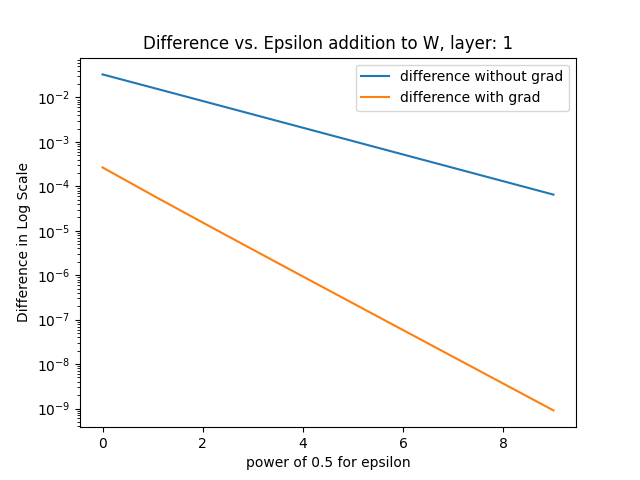
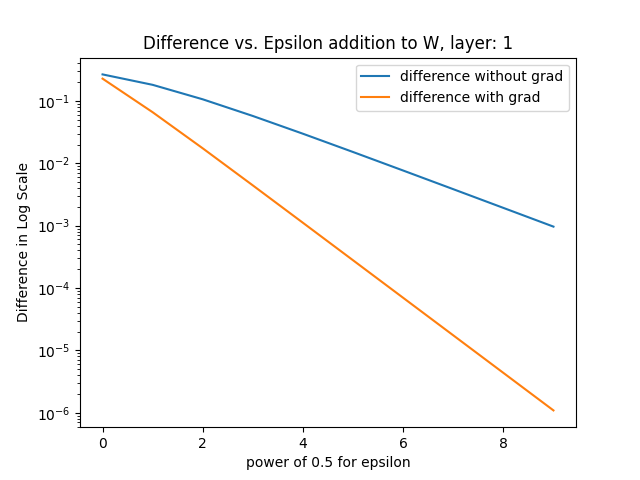
before using sofymax module

diff --git a/SoftMax_layer.py b/SoftMax_layer.py
@@ -1,0 +1,206 @@
+#TODO delete this file
+import numpy as np
+import torch #only for tests
+
+class SoftmaxModule:
+
+    def __init__(self, n, l):
+        # n is the length of input vector, l is number of classes
+        self.W = np.random.randn(n, l)*0.5   # change this potentially
+        self.B = np.zeros((1,l))#np.random.rand(1,l) * 0.5
+        self.X = None # cache X
+        self.C = None # cache C
+        self.A = None # cache A(activation, i.e. softmax output)
+
+    def softmax_forward(self, X,bias=True,cache = True):
+        """
+
+        :param X: X tensor of shape n,m where m is number of training examples
+        :param bias: whether to add bias or not, just for testing
+        :return: softmax output of shape l*m where l is the number of classes
+        """
+
+        # shape of W is n,l. shape of X is n,m.
+        if bias:
+            temp_X = np.concatenate((X, np.ones((1, X.shape[1]))), axis=0)  # shape n+1,m
+            temp = temp_X.T @ np.concatenate((self.W,self.B),axis=0)  # shape of temp is m,l
+        else:
+            temp = X.T @ self.W #shape is m,l
+        temp_max = np.max(temp, axis=1, keepdims=True) # shape is m,1
+        temp = temp - temp_max # broadcasting
+        exp = np.exp(temp)  # shape of exp is m,l
+        # print("shape of exp: %s" % str(exp.shape))
+        sum = np.sum(exp, axis=1, keepdims=True)  # shape of sum is m,1
+        # print("shape of sum: %s" % str(sum.shape))
+        out = exp / sum  # shape of out is m,l
+        if cache:
+          self.A = out # cache A
+        return out
+
+    def cross_entropy_forward(self, X, C):
+        """
+
+        :param X: output of softmax_forward, shape m,l
+        :param C: matrix of true labels, shape l,m
+        :return: cross entropy loss over all training examples
+        """
+        t = C.T * np.log(X)  # shape m,l
+        l_sum = np.sum(t, axis=1)  # shape m
+        return -1 * np.mean(l_sum)
+
+    def loss_forward(self, X, C,cache = True):
+        """
+
+        :param X: input matrix of size n*m
+        :param C: matrix of true labels, shape l,m
+        :return: the function returns the cross entropy loss
+        """
+        ##CACHE X and C
+        if cache:
+          self.X = X
+          self.C = C
+        return self.cross_entropy_forward(self.softmax_forward(X,cache = cache), C)
+
+    def grad(self):
+        """
+
+        :return: (dX,dW,dB)
+
+        """
+        # A.shape is m,l so we need to transpose it when computing dx
+        # W.shape is n,l
+        # X.shape is n,m
+        m = self.X.shape[1]
+        dX = (1/m)*self.W @ (self.A.T-self.C) # shape n,m
+        temp_X = np.concatenate((self.X, np.ones((1, self.X.shape[1]))), axis=0)  # shape n+1,m. this is for bias
+        dWB = (1/m)*temp_X @ (self.A-self.C.T) # shape n+1,l
+        # now we need to separate dW and dB
+        dW = dWB[:-1,:]
+        dB = dWB[-1:,:]
+        return dX,dW,dB # TODO: jacobian test
+
+    # def grad_test(self):
+    #     X = self.X
+    #     C = self.C
+    #     epsilon = [(0.5)**i for i in range(0,10)]
+    #     o_eps = []
+    #     o_eps_squared = []
+    #     dX,dW,dB= self.grad()
+
+    #     ### FOR dX ####
+    #     d = np.random.rand(self.X.shape[0],self.X.shape[1])
+    #     d = d/np.linalg.norm(d)
+    #     for eps in epsilon:
+    #         f_x_eps = self.loss_forward(X+(d*eps),C,cache=False)
+    #         f_x = self.loss_forward(X,C,cache=False)
+    #         o_eps.append(np.abs(f_x_eps-f_x))
+    #         temp = np.vdot(d,dX)*eps
+    #         temp_o_squared = np.abs(f_x_eps-f_x-temp)
+    #         o_eps_squared.append(temp_o_squared)
+    #     #now plot both o_eps and o_eps_squared
+    #     # plt.plot()
+    #     plt.plot(o_eps,label="without gradient",color="red")
+    #     plt.plot(o_eps_squared,label="with gradient",color="blue")
+    #     plt.yscale("log")
+    #     plt.ylabel("difference")
+    #     plt.legend()
+    #     plt.title("softmax: dL/dX")
+    #     plt.show()
+
+    #     ##FOR W ##
+    #     o_eps = []
+    #     o_eps_squared = []
+    #     d = np.random.rand(self.W.shape[0],self.W.shape[1])
+    #     d = d/np.linalg.norm(d)
+    #     for eps in epsilon:
+    #         temp = self.W
+    #         self.W = self.W+d*eps
+    #         f_x_eps = self.loss_forward(X,C,cache=False)
+    #         self.W = temp
+    #         f_x = self.loss_forward(X,C,cache=False)
+    #         # torch_test = ce(torch.Tensor(X.T @ self.W),torch.Tensor(C.T))
+    #         temp_o = np.abs(f_x_eps-f_x)
+    #         o_eps.append(np.abs(f_x_eps-f_x))
+    #         temp = np.vdot(d,dW)*eps
+    #         temp_o_squared = np.abs(f_x_eps-f_x-temp)
+    #         # print("o(eps): %s, o(eps)^2: %s, epsilon: %s" % (str(temp_o),str(temp_o_squared),str(eps)))
+    #         o_eps_squared.append(temp_o_squared)
+    #     #now plot both o_eps and o_eps_squared
+    #     # plt.plot()
+    #     plt.plot(o_eps,label="without gradient",color="red")
+    #     plt.plot(o_eps_squared,label="with gradient",color="blue")
+    #     plt.yscale("log")
+    #     plt.ylabel("difference")
+    #     plt.legend()
+    #     plt.title("softmax: dL/dW")
+    #     plt.show()
+    #     ## FOR B ##
+    #     o_eps = []
+    #     o_eps_squared = []
+    #     d = np.random.rand(self.B.shape[0],self.B.shape[1])
+    #     d = d/np.linalg.norm(d)
+    #     for eps in epsilon:
+    #         temp = self.B
+    #         self.B = self.B+d*eps
+    #         f_x_eps = self.loss_forward(X,C,cache=False)
+    #         self.B = temp
+    #         f_x = self.loss_forward(X,C,cache=False)
+    #         # torch_test = ce(torch.Tensor(X.T @ self.W),torch.Tensor(C.T))
+    #         temp_o = np.abs(f_x_eps-f_x)
+    #         o_eps.append(np.abs(f_x_eps-f_x))
+    #         temp = np.vdot(d,dB)*eps
+    #         temp_o_squared = np.abs(f_x_eps-f_x-temp)
+    #         # print("o(eps): %s, o(eps)^2: %s, epsilon: %s" % (str(temp_o),str(temp_o_squared),str(eps)))
+    #         o_eps_squared.append(temp_o_squared)
+    #     #now plot both o_eps and o_eps_squared
+    #     # plt.plot()
+    #     plt.plot(o_eps,label="without gradient",color="red")
+    #     plt.plot(o_eps_squared,label="with gradient",color="blue")
+    #     plt.yscale("log")
+    #     plt.ylabel("difference")
+    #     plt.legend()
+    #     plt.title("softmax: dL/dB")
+    #     plt.show()
+
+
+
+# if __name__ == "__main__":
+#     # test softmax
+#     n = 2
+#     l = 5
+#     m = 3
+#     X = np.random.rand(n, m)
+#     # np.eye(n_classes)[np.random.choice(n_classes, n_samples)]
+#     C =np.eye(l)[np.random.choice(l, m)].T
+#     print("X: %s" % str(X.shape))
+#     print("C: %s" % str(C.shape))
+#     # print("X: %s" % X)
+#     # print("C: %s" % C)
+#     sm = SoftmaxModule(n, l)
+#     out = sm.softmax_forward(X,False)
+#     print("our_softmax_out: %s" % str(out))
+#     # loss = sm.cross_entropy_forward(out, C)
+#     # print("loss: %s" % loss)
+#     test = X.T @ sm.W
+#     # print("test: %s" % str(test.shape))
+#     sm_test = torch.nn.functional.softmax(torch.Tensor(test), dim=1)
+#     # ce_test = torch.nn.functional.cross_entropy(torch.Tensor(sm_test), torch.Tensor(C))
+#     print("sm_test_torch: %s" % str(sm_test))
+
+#     ce = sm.cross_entropy_forward(out,C)
+#     print("our_ce: %s" % ce)
+
+
+#     # test cross entropy
+#     ce_torch = torch.nn.CrossEntropyLoss()
+#     ce_test = ce_torch(torch.Tensor(test), torch.Tensor(C.T))
+#     print("ce_test_torch: %s" % ce_test)
+
+#     # now let's test if the bias works
+#     b = np.random.rand(1,l)
+#     sm.B = b
+#     test = test+b
+#     sm_bias = sm.softmax_forward(X,bias=True)
+#     print("sm_bias: %s" % str(sm_bias))
+#     sm_test = torch.nn.functional.softmax(torch.Tensor(test), dim=1)
+#     print("sm_bias_torch: %s" % str(sm_test))

diff --git a/NN.py b/NN.py
@@ -176,7 +176,7 @@ class NN:
                 temp = param.copy()
                 layer.set_param(name, param + d * eps)
 
-                f_x_eps = self.loss_from(layer.X, C, layer_index)  # input is not cached
+                f_x_eps = layer.forward(layer.lastInput, C)  # input is not cached
                 layer.set_param(name, temp)
                 o_eps.append(np.abs(f_x_eps - f_x))
                 temp_gradient = np.vdot(d, gradient) * eps
@@ -220,6 +220,8 @@ class Layer:
     def forward(self, x):
         # print("W: " + str(self.W) + " b: " + str(self.b))
         # print("WShape: " + str(self.W.shape) + " bShape: " + str(self.b.shape) + " xShape: " + str(x.shape))
+        
+        #dont touch this
         self.lastInput = x
 
         self.lastForwardValBeforeActivation = np.dot(self.W, x) + self.b
@@ -230,6 +232,8 @@ class Layer:
         # print("dx_from_next_layer: " + str(dx_from_next_layer))
         # print("self.activation.backward(self.lastForwardValBeforeActivation): " + str(self.activation.backward(self.lastForwardValBeforeActivation)))
         # print("self.lastInput.T: " + str(self.lastInput.T))
+
+        #dont touch this.
         grad_w = dx_from_next_layer * np.dot(self.activation.backward(self.lastForwardValBeforeActivation), self.lastInput.T)
         grad_b = np.sum(dx_from_next_layer * self.activation.backward(self.lastForwardValBeforeActivation), axis=1, keepdims=True)
         current_dx = np.dot(self.W.T,(dx_from_next_layer * self.activation.backward(self.lastForwardValBeforeActivation)))
@@ -551,7 +555,7 @@ def runGradTest():
 
     y= np.array([[1,0]])
     nn = NN([2, 3,4, 2], lr=0.1)
-    nn.forward(X.T)
+    nn.forward(X.T, y)
     nn.grad_test()
 
 def runResNetJacTest():
@@ -727,6 +731,6 @@ if __name__ == "__main__":
     runJacTest()
     runResNetJacTest()
     # training_on_data_sets()
-    # runGradTest()
+    runGradTest()
     # very_simple_toy_example()
 
